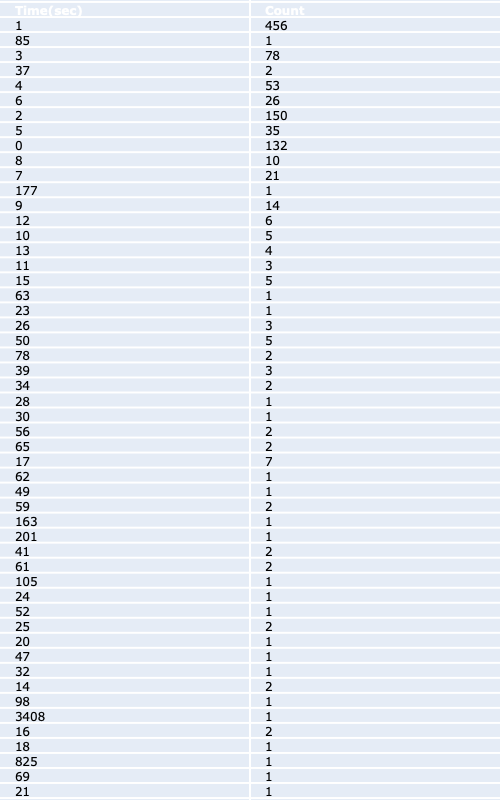
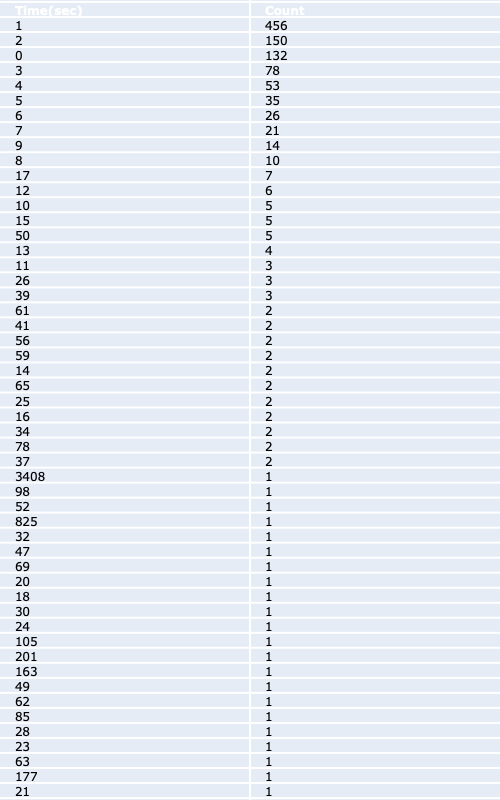
generate sorted frequency tables to interpret keyEvent frequency and average click time frequency

diff --git a/dataAnalysis/analysis.py b/dataAnalysis/analysis.py
@@ -4,8 +4,6 @@ import os
 import plotly.figure_factory as ff
 import pandas as pd
 
-
-
 path = './Documents/Github/SequencerLiveCoding/dataAnalysis/csc_workshop_12_4_2021/logs/TBR'
 my_list = os.listdir(path)
 
@@ -58,6 +56,18 @@ def keyAnalysis():
                     v ={s_line[3]: valCol }
                     keyDict.update(v)
   print(keyDict)
+  data = {'KeyEvent':keyDict.keys(), 'Count' : keyDict.values()}
+  df1 = pd.DataFrame(data, columns=['KeyEvent','Count'])
+  df1 = df1.sort_values(by=['Count'], ascending=False)
+  print(df1)
+  fig = ff.create_table(df1)
+  fig.update_layout(
+    autosize=False,
+    width=500,
+    height=1000,
+  )
+  fig.write_image("Key_Freq.png", scale=2)
+  fig.show()
   fig = plt.bar(list(keyDict.keys()), keyDict.values(), color='g')
   plt.xticks(rotation = 90)
   plt.savefig('./Documents/Github/SequencerLiveCoding/dataAnalysis/keyAnalysis.png')
@@ -111,11 +121,11 @@ def timeAnalysis():
           else:
             v ={roundTime: valTime }
             timeDict.update(v)
-
  #print(timeDict)
  #print (timeGenDict)
  data = {'Time(sec)':timeDict.keys(), 'Count' : timeDict.values()}
  df1 = pd.DataFrame(data, columns=['Time(sec)','Count'])
+ df1 = df1.sort_values(by=['Count'], ascending=False)
  print(df1)
  fig = ff.create_table(df1)
  fig.update_layout(
@@ -125,22 +135,19 @@ def timeAnalysis():
   )
  fig.write_image("table_plotly.png", scale=2)
  fig.show()
- #fig2 = plt.bar(list(timeGenDict.keys()), timeGenDict.values(), color='g')
- #plt.xticks(rotation = 90)
- #plt.savefig('./Documents/Github/SequencerLiveCoding/dataAnalysis/Data analysis reports/generalTime.png')
- #plt.xlim([0,200])
+ fig2 = plt.bar(list(timeGenDict.keys()), timeGenDict.values(), color='g')
+ plt.xticks(rotation = 90)
+ plt.xlim([0,200])
+ plt.savefig('./Documents/Github/SequencerLiveCoding/dataAnalysis/Data analysis reports/generalTime.png')
  plt.show()
-
-      
-     
-     
-      
 
 def eventEvolv():
  countClick = 0
  countKey = 0
  for folder in my_list:
   with open(path + '/' + folder + '/log.txt') as f: 
+    substringKey = " keyEvent"
+    substringClick = " clickEvent"
     for line in f:
       sort_line = line.split(',')
 
